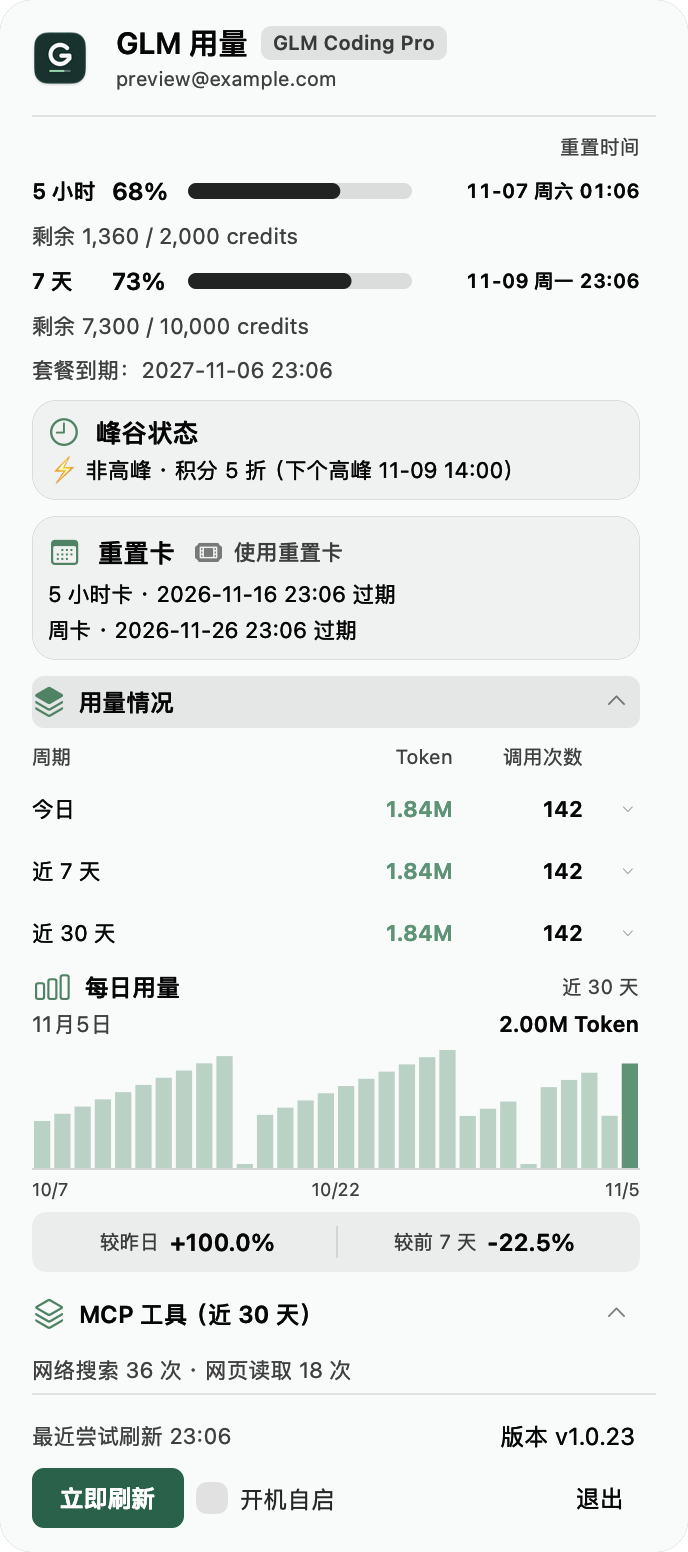
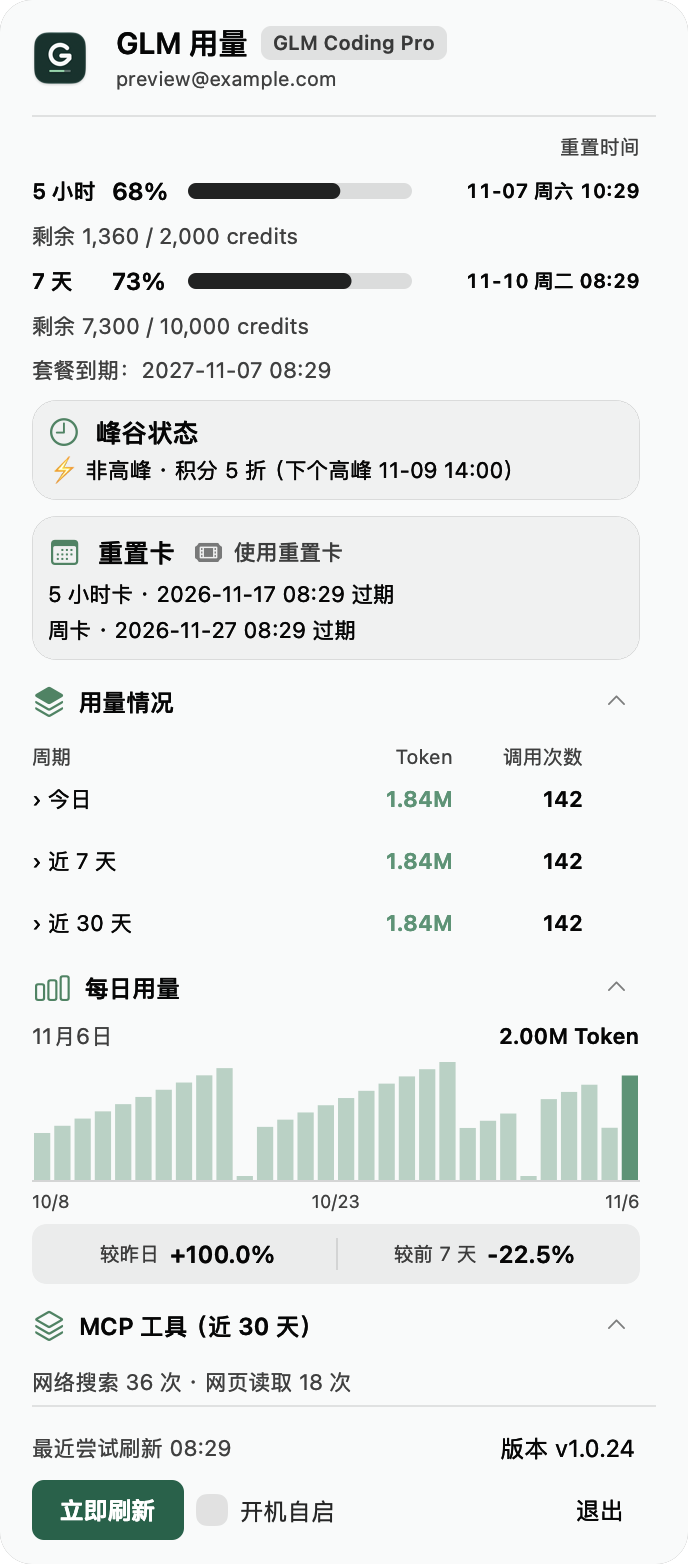
每日用量 UI 微调：去区间文案、加折叠、周期表间距对齐 CodexUsage
- 每日用量标题去掉「近 30 天」文案；新增与用量情况同款折叠按钮
  （整行可点、chevron 右侧、a11y「收起/展开每日用量」、状态跨重建保留；
  折叠时仅标题行，键盘 Tab 链桥接用量情况↔MCP）
- 用量情况周期表行距 8→3、模型明细组末 12→8（CodexUsage 口径）
- 周期行折叠指示符从行尾图标改为行首文本前缀（⌄/›，CodexUsage 同款）
- 12 张面板截图按新 UI 重生成（宽度基准与旧图一致）
- PRD v0.4：§4 布局图、§6.1 标题、新增 §6.4 折叠行为

回归：build/--self-test/--peak-test 20/20/Python 28/--preview-popover-test/
--preview-daily-test --preview-daily-gaps 全绿

diff --git a/GlmUsage.swift b/GlmUsage.swift
@@ -1824,7 +1824,8 @@ final class GLMDailyUsageSectionView: NSView {
     /// 柱图（供面板把每日图接进 key view loop，Tab/FKA 可达）
     var chartCanvas: GLMDailyChartCanvas { canvas }
 
-    init(buckets: [GLMDayBucket]?, selectedIndex: Int?, pendingNote: Bool = false, onSelect: @escaping (Int) -> Void) {
+    init(buckets: [GLMDayBucket]?, selectedIndex: Int?, expanded: Bool,
+         toggleTarget: AnyObject?, toggleAction: Selector, pendingNote: Bool = false, onSelect: @escaping (Int) -> Void) {
         super.init(frame: .zero)
         translatesAutoresizingMaskIntoConstraints = false
         let stack = GLMPanelStack()
@@ -1836,7 +1837,7 @@ final class GLMDailyUsageSectionView: NSView {
         NSLayoutConstraint.activate([stack.topAnchor.constraint(equalTo: topAnchor), stack.bottomAnchor.constraint(equalTo: bottomAnchor),
                                      stack.leadingAnchor.constraint(equalTo: leadingAnchor), stack.trailingAnchor.constraint(equalTo: trailingAnchor)])
 
-        // 标题行：非折叠板块（PRD §4 仅用量情况/MCP 可折叠）
+        // 标题行：折叠按钮与用量情况/MCP 同款（chevron + 整行可点，PRD §6.4）
         let header = NSStackView()
         header.orientation = .horizontal
         header.alignment = .centerY
@@ -1855,12 +1856,11 @@ final class GLMDailyUsageSectionView: NSView {
         let spacer = NSView()
         spacer.setContentHuggingPriority(.init(1), for: .horizontal)
         spacer.setContentCompressionResistancePriority(.init(1), for: .horizontal)
-        let range = NSTextField(wrappingLabelWithString: "近 30 天")
-        range.font = .systemFont(ofSize: 10)
-        range.textColor = .secondaryLabelColor
-        range.lineBreakMode = .byTruncatingTail
-        range.maximumNumberOfLines = 1
-        range.setContentCompressionResistancePriority(.required, for: .horizontal)
+        let chevron = NSImageView(image: NSImage(systemSymbolName: expanded ? "chevron.up" : "chevron.down", accessibilityDescription: nil) ?? NSImage())
+        chevron.contentTintColor = .secondaryLabelColor
+        chevron.symbolConfiguration = NSImage.SymbolConfiguration(pointSize: 10, weight: .regular)
+        chevron.widthAnchor.constraint(equalToConstant: 24).isActive = true
+        chevron.heightAnchor.constraint(equalToConstant: 22).isActive = true
         // 旧值保留期间的简短提示（PRD §9「必要时显示简短待更新」；非技术脚注）
         if pendingNote {
             let pending = NSTextField(wrappingLabelWithString: "待更新")
@@ -1874,9 +1874,26 @@ final class GLMDailyUsageSectionView: NSView {
         header.addArrangedSubview(icon)
         header.addArrangedSubview(title)
         header.addArrangedSubview(spacer)
-        header.addArrangedSubview(range)
-        stack.addArrangedSubview(header)
-        header.widthAnchor.constraint(equalTo: stack.widthAnchor).isActive = true
+        header.addArrangedSubview(chevron)
+        // 整行可点折叠（与 section() 的板块标题同款）；状态在 AppDelegate，点击走 rebuildMenu
+        header.translatesAutoresizingMaskIntoConstraints = false
+        let toggle = GLMPanelAction(title: "", target: toggleTarget, action: toggleAction)
+        toggle.isBordered = false
+        toggle.wantsLayer = true
+        toggle.layer?.cornerRadius = 6
+        let actionTitle = (expanded ? "收起" : "展开") + "每日用量"
+        toggle.setAccessibilityLabel(actionTitle)
+        toggle.toolTip = actionTitle
+        toggle.addSubview(header)
+        NSLayoutConstraint.activate([header.leadingAnchor.constraint(equalTo: toggle.leadingAnchor),
+                                     header.trailingAnchor.constraint(equalTo: toggle.trailingAnchor),
+                                     header.centerYAnchor.constraint(equalTo: toggle.centerYAnchor)])
+        toggle.heightAnchor.constraint(equalToConstant: 26).isActive = true
+        stack.addArrangedSubview(toggle)
+        toggle.widthAnchor.constraint(equalTo: stack.widthAnchor).isActive = true
+
+        // 折叠：仅保留标题行（待更新提示仍在），日期/柱图/刻度/比较条全部不入层级
+        guard expanded else { return }
 
         // 选中行：所选日期 + Token 值；悬停立即切换，缺数据时显示「暂不可用」
         dateLabel.identifier = Self.dateLabelIdentifier
@@ -2010,6 +2027,7 @@ final class AppDelegate: NSObject, NSApplicationDelegate, NSMenuDelegate, NSPopo
     private var tokenExpanded = true
     private var expandedModelWindows: Set<Int> = []
     private var mcpExpanded = true
+    private var dailyExpanded = true
     private var updateMessage: String?
     private var updateMessageDismissal: DispatchWorkItem?
     private var updateProgressObserver: NSObjectProtocol?
@@ -2829,6 +2847,7 @@ final class AppDelegate: NSObject, NSApplicationDelegate, NSMenuDelegate, NSPopo
         rebuildMenu()
     }
     @objc private func toggleMCP() { mcpExpanded.toggle(); rebuildMenu() }
+    @objc private func toggleDaily() { dailyExpanded.toggle(); rebuildMenu() }
     // 版本点击等临时状态行；dismissAfter 到点后自动清除（与 CodexUsage 一致）
     private func setUpdateMessage(_ message: String?, dismissAfter: TimeInterval? = nil) {
         updateMessageDismissal?.cancel()
@@ -3078,11 +3097,19 @@ final class AppDelegate: NSObject, NSApplicationDelegate, NSMenuDelegate, NSPopo
         }
         if tokenExpanded {
             let tableHeader = tableCells(["周期", "Token", "调用次数"], header: true); add(tableHeader)
+            // 行距 3 / 组末 8（对齐 CodexUsage 周期表口径）；root 默认 8 只用于板块之间
+            var previous: NSView? = tableHeader
+            var previousEndsGroup = false
+            func tighten(after view: NSView?, gap: CGFloat) {
+                if let view = view { root.setCustomSpacing(gap, after: view) }
+            }
             for (index, window) in windows.enumerated() {
                 let (name, stats, _, _, _) = window
                 let models = stats.map { TokenModelList.visible($0.byModel) } ?? []
                 let expanded = expandedModelWindows.contains(index)
-                let cells = tableCells([name, stats.map { Fmt.tokens($0.totalTokens) } ?? "--", stats.map { Fmt.count($0.totalCalls) } ?? "--"], header: false)
+                // 折叠指示符在行首（周期名前缀，CodexUsage 同款）；无明细不加
+                let nameLabel = models.isEmpty ? name : (expanded ? "⌄ " : "› ") + name
+                let cells = tableCells([nameLabel, stats.map { Fmt.tokens($0.totalTokens) } ?? "--", stats.map { Fmt.count($0.totalCalls) } ?? "--"], header: false)
                 let item = GLMPanelAction(title: "", target: self, action: #selector(toggleModels(_:)))
                 item.isBordered = false; item.wantsLayer = true; item.layer?.cornerRadius = 5; item.tag = index
                 item.isEnabled = !models.isEmpty
@@ -3091,20 +3118,18 @@ final class AppDelegate: NSObject, NSApplicationDelegate, NSMenuDelegate, NSPopo
                 item.toolTip = models.isEmpty ? "暂无模型明细" : (expanded ? "收起模型明细" : "展开模型明细")
                 cells.translatesAutoresizingMaskIntoConstraints = false; item.addSubview(cells)
                 NSLayoutConstraint.activate([cells.leadingAnchor.constraint(equalTo: item.leadingAnchor), cells.centerYAnchor.constraint(equalTo: item.centerYAnchor)])
-                if !models.isEmpty {
-                    let arrow = NSImageView(image: NSImage(systemSymbolName: expanded ? "chevron.up" : "chevron.down", accessibilityDescription: nil) ?? NSImage())
-                    arrow.contentTintColor = .secondaryLabelColor.withAlphaComponent(0.45); arrow.symbolConfiguration = NSImage.SymbolConfiguration(pointSize: 6, weight: .light)
-                    arrow.translatesAutoresizingMaskIntoConstraints = false; item.addSubview(arrow)
-                    NSLayoutConstraint.activate([arrow.trailingAnchor.constraint(equalTo: item.trailingAnchor, constant: -3), arrow.centerYAnchor.constraint(equalTo: item.centerYAnchor)])
-                }
                 item.heightAnchor.constraint(equalToConstant: 23).isActive = true; add(item)
+                tighten(after: previous, gap: previousEndsGroup ? 8 : 3)
+                previous = item
+                previousEndsGroup = !expanded || models.isEmpty
                 if expanded {
-                    root.setCustomSpacing(4, after: item)
                     for (modelIndex, model) in models.enumerated() {
                         let detail = tableCells([model.name, Fmt.tokens(model.tokens), ""], header: false, modelDetail: true)
                         detail.heightAnchor.constraint(equalToConstant: 20).isActive = true
                         add(detail)
-                        root.setCustomSpacing(modelIndex == models.count - 1 ? 12 : 4, after: detail)
+                        tighten(after: previous, gap: 3)
+                        previous = detail
+                        previousEndsGroup = modelIndex == models.count - 1
                     }
                 }
             }
@@ -3118,7 +3143,8 @@ final class AppDelegate: NSObject, NSApplicationDelegate, NSMenuDelegate, NSPopo
         // 旧值保留期间有解析/刷新失败或超时 → 仅在「近 30 天」旁给简短「待更新」，不写技术细节。
         let dailyPending = usage.dailyTokens != nil && (usage.dailyTokensError != nil || dailyStale)
         let dailySection = GLMDailyUsageSectionView(buckets: usage.dailyTokens, selectedIndex: dailySelectedIndex,
-                                                    pendingNote: dailyPending) { [weak self] index in
+                                                    expanded: dailyExpanded, toggleTarget: self,
+                                                    toggleAction: #selector(toggleDaily), pendingNote: dailyPending) { [weak self] index in
             self?.dailySelectedIndex = index
         }
         add(dailySection)
@@ -3127,8 +3153,12 @@ final class AppDelegate: NSObject, NSApplicationDelegate, NSMenuDelegate, NSPopo
         // 键盘可达（PRD §6.2 支持键盘切换日期）：把柱图接进 key view loop——
         // 「用量情况」标题 → 柱图 → 「MCP 工具」标题为显式顺序，其余环节按几何自动；
         // Full Keyboard Access 下 Tab 即可到达柱图，左右方向键切换日期
-        usageSection.nextKeyView = dailySection.chartCanvas
-        dailySection.chartCanvas.nextKeyView = mcpSection
+        if dailyExpanded {
+            usageSection.nextKeyView = dailySection.chartCanvas
+            dailySection.chartCanvas.nextKeyView = mcpSection
+        } else {
+            usageSection.nextKeyView = mcpSection   // 折叠时柱图不在视图层级，直接桥接相邻板块
+        }
         if mcpExpanded {
             if let t = usage.tools30d { add(label("网络搜索 \(Fmt.count(t.networkSearch)) 次 · 网页读取 \(Fmt.count(t.webRead)) 次", color: .secondaryLabelColor)) }
             else { add(label("暂无数据", color: .secondaryLabelColor)) }

diff --git a/docs/project/11-usage-insights-prd.md b/docs/project/11-usage-insights-prd.md
@@ -1,6 +1,6 @@
 # GLMUsage 用量洞察迭代 PRD
 
-- 方案版本：**v0.3 · 已确认进入隔离开发**
+- 方案版本：**v0.4 · v0.3 发版后 UI 微调（2026-11-07）：每日用量标题去掉「近 30 天」文案、增加与「用量情况」同款折叠按钮**
 - 日期：2026-11-06
 - 当前源码基线：`main` / `b0a32a8` / `v1.0.23`
 - 范围：GLMUsage；KimiUsage 为用户误输入，不在本轮范围内
@@ -76,7 +76,7 @@ GLM 图标＋GLM 用量＋套餐 badge
   近 7 天     11.12M         958  ∨
   近 30 天    42.80M       3,682  ∨
 
-每日用量                 近 30 天
+每日用量                  可折叠
   选中日期              Token 值
   每日柱状图
   日期刻度
@@ -113,7 +113,7 @@ MCP 工具（近 30 天）       可折叠
 ### 6.1 默认外观
 
 - 放在「用量情况」下、「MCP 工具」上。
-- 标题「每日用量」，右侧仅「近 30 天」。
+- 标题「每日用量」，右侧无区间文案；与「用量情况」同款折叠按钮（§6.4）。
 - 一行显示所选日期和 Token 数；默认选中最新有记录的完整日。
 - 下方为 30 日小柱状图，使用现有绿色体系；零值用基线，缺失日用缺口。
 - 图下保留少量日期刻度与两项比较，无额外解释性文字。
@@ -141,6 +141,12 @@ MCP 工具（近 30 天）       可折叠
 - 两个标签始终保留，不因数据不足隐藏整行。
 
 每日图使用完整自然日，现有周期表仍保留当前今日／滚动 7 天／滚动 30 天含义，不为了让两个区域总和相等而改动既有统计。
+
+### 6.4 折叠行为（2026-11-07 增补）
+
+- 标题行右侧为与「用量情况」同款折叠按钮（chevron + 无障碍标签「收起/展开每日用量」），标题行整行可点击。
+- 折叠时隐藏日期/数值行、柱状图、日期刻度与比较条，仅保留标题行；待更新提示仍显示在标题行。
+- 折叠状态跨面板重建保留；折叠时键盘 Tab 链从「用量情况」直接桥接到「MCP 工具」。
 
 ## 7. GLM 与 Codex 的迁移边界
 
